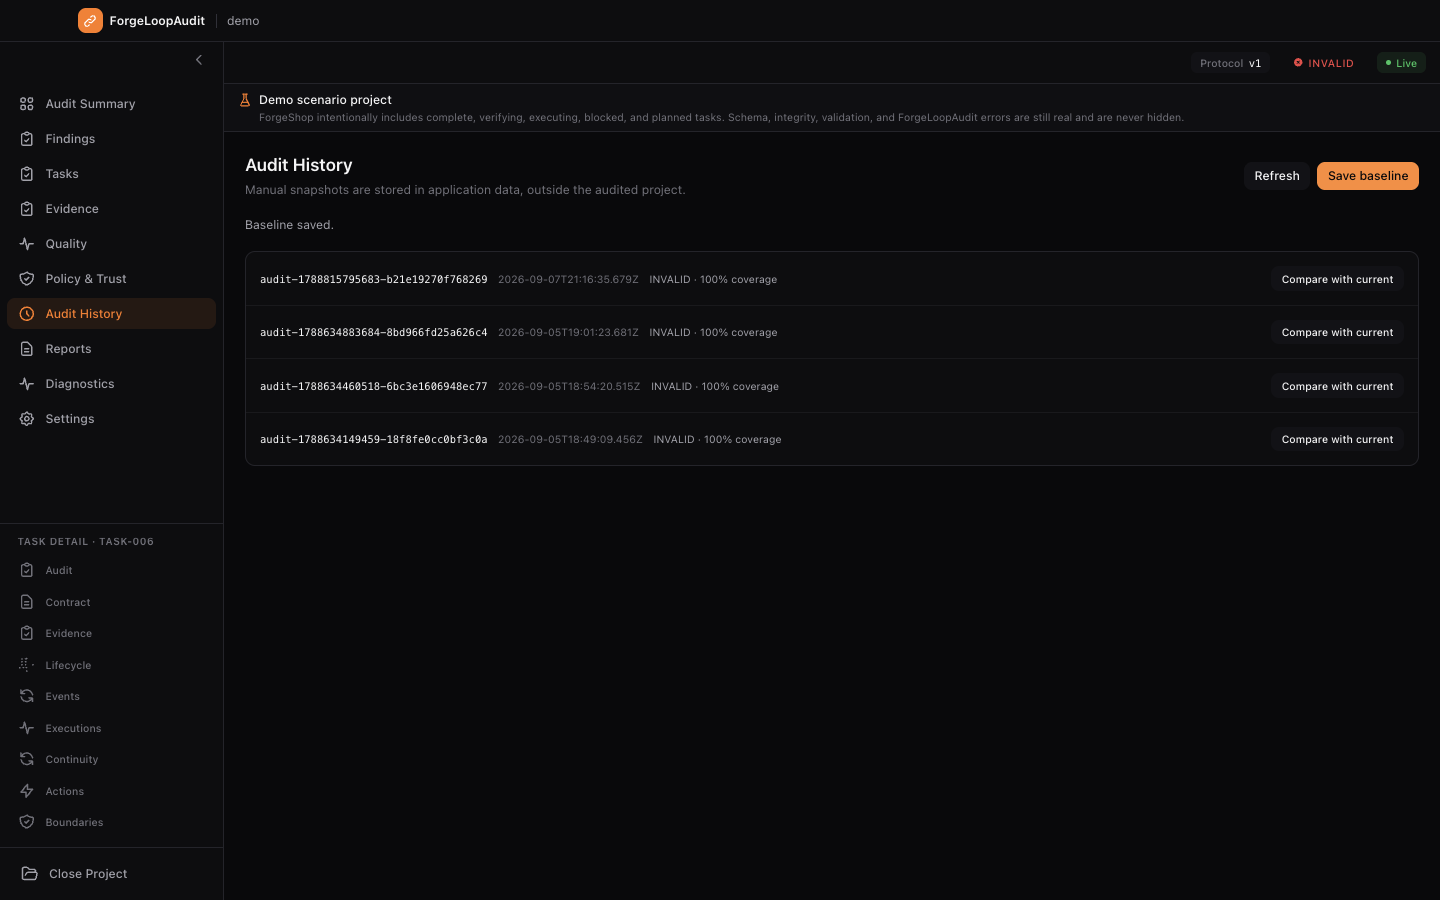
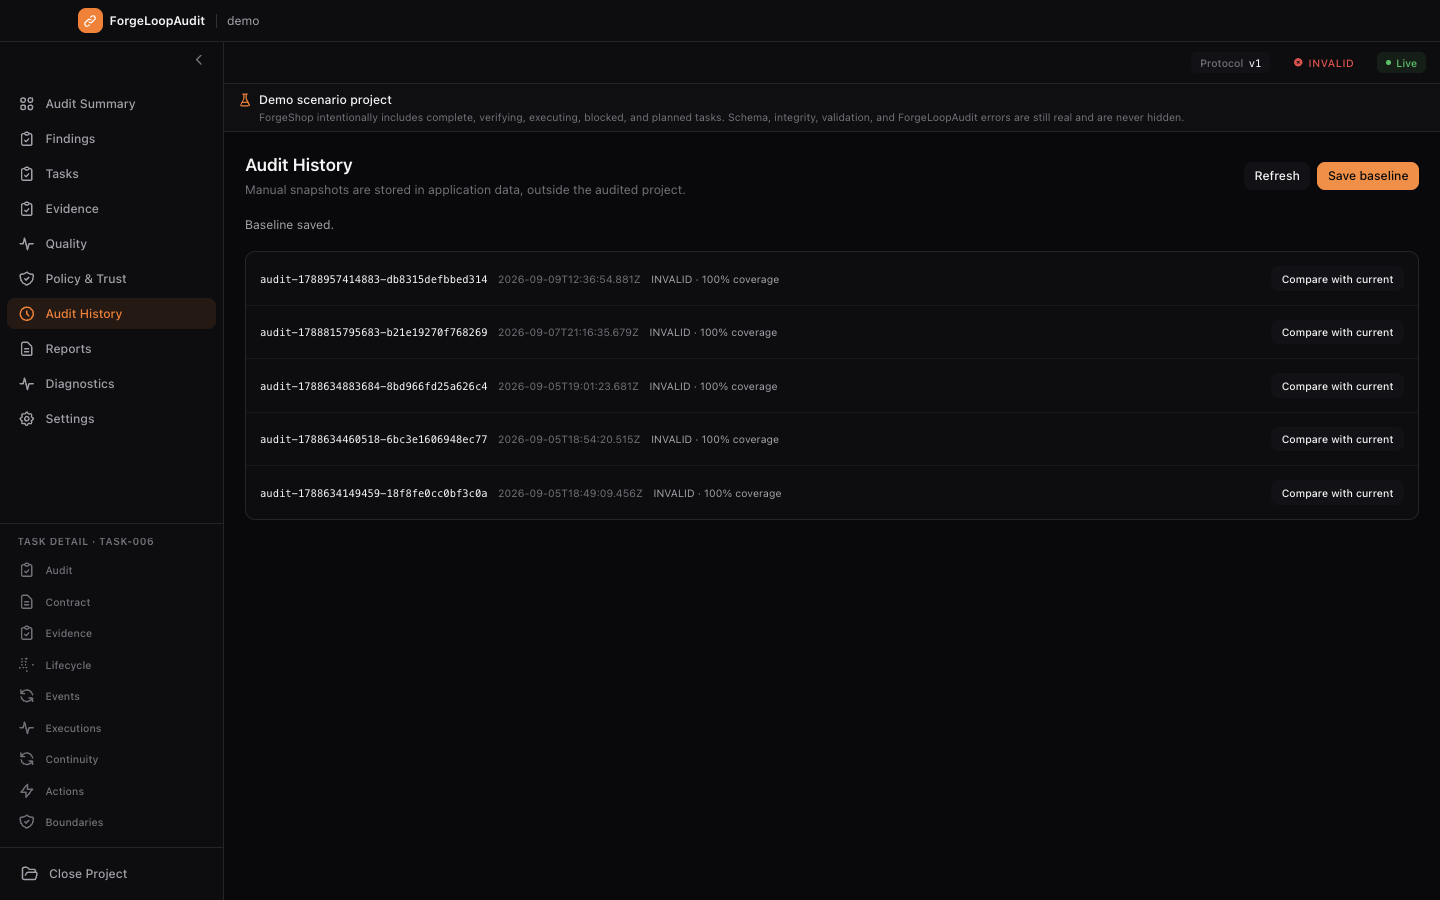
chore: capture pre-web migration baseline

diff --git a/docs/migration/WEB_BASELINE.md b/docs/migration/WEB_BASELINE.md
@@ -1,0 +1,158 @@
+# ForgeLoopAudit Web Migration Baseline
+
+Captured: 2026-09-09
+Branch: `codex/forgeloop-1.11.1-web-migration`
+
+## Product and dependency identity
+
+- ForgeLoopAudit: `0.2.0-rc.3`
+- ForgeLoop package: `@cassiomc1/forgeloop@1.10.2`
+- ForgeLoop source commit: `d286e1983177a0dfb1f0ceef6c2f6e30c406303a`
+- Protocol: v1
+- Schema: v1
+- Integration API: v1
+- Node runtime observed: `v26.8.1` (the supported package contract remains Node `>=20`)
+
+## Verification results
+
+| Command | Result | Observed evidence |
+| --- | --- | --- |
+| `npm test` | PASS | 80 files passed, 1 skipped; 485 tests passed, 3 skipped |
+| `npm run typecheck` | PASS | TypeScript completed without errors |
+| `npm run lint` | PASS | ESLint completed without errors |
+| `npm run build` | PASS | Renderer and Electron bundles built; package contents verified |
+| `npm run demo:verify` | PASS | 6 tasks, 71 events, 29/29 artifact categories |
+| `npm run test:e2e` | PASS | 8 passed, 1 skipped |
+| `npm run screenshots:readme` | PASS | 10 screenshots captured at 1440x900 |
+| `npm run docs:check` | PASS | Documentation and 10 screenshot references conformed |
+| `npm run brand:check` | PASS | 571 active files checked |
+| `npm run verify:forgeloop-lineage` | PASS | 1.10.2 archive, commit and digest matched |
+| `npm run protocol:schemas:verify` | PASS | 31 schemas verified against ForgeLoop 1.10.2 provenance |
+| `npm run verify:full` | PASS | All local gates completed; platform release gates remain CI-owned |
+
+The release-contract test suite intentionally exercises failing child processes for
+negative cases. Those child-process error messages are expected; the suite itself
+completed with 84 passing tests and no failures.
+
+## Current IPC surface
+
+The preload exposes the following renderer methods through `window.forgeLoopAudit`:
+
+```text
+selectProject
+openRecentProject
+openDemoProject
+closeProject
+getProjectAudit
+getTaskAudit
+getAuditFindings
+getTaskStructuralQuality
+saveAuditBaseline
+listAuditHistory
+compareAudits
+exportAuditReport
+getProjectSnapshot
+getTask
+getTaskEvents
+validateEventLedger
+getPolicyStatus
+getRawArtifact
+getRawCollectionArtifact
+getTaskHistory
+getTaskTrace
+getTaskReflection
+getTaskInspection
+getTaskActions
+getTaskAction
+getTaskApprovals
+getTaskMetrics
+getTaskEvaluations
+getCapabilityPolicy
+getTaskWorkspaceBinding
+getTaskHandoffs
+getTaskContinuityLint
+getTaskResponsibility
+getTaskVerificationScope
+getTaskAttestation
+getTaskExecutionProfileContext
+getTaskExecutions
+getRecentProjects
+addRecentProject
+removeRecentProject
+notifyRendererReady
+getAppVersion
+getDiagnostics
+minimizeWindow
+toggleMaximizeWindow
+subscribeProjectUpdates
+```
+
+The renderer also receives `project-update`, `watcher-status`, and `error` events.
+
+## Electron-only surface
+
+- `src/main/app.ts`: `BrowserWindow`, Electron session/permission policy,
+  navigation policy, packaged renderer loading, window lifecycle and shutdown.
+- `src/main/ipc/project.handlers.ts`: `ipcMain` route registration, native folder
+  picker, Electron app-data path, demo resource resolution, and renderer event
+  delivery. The audit/domain orchestration in this file is the primary extraction
+  target for the local server.
+- `src/main/ipc/task.handlers.ts`, `src/main/ipc/window.handlers.ts`, and
+  `src/main/ipc/register-ipc.ts`: Electron IPC registration and window controls.
+- `src/preload/index.ts`: `contextBridge` and `ipcRenderer` adapter.
+- `scripts/build-electron.mjs`, `scripts/apply-electron-fuses.mjs`,
+  `scripts/after-pack-fuses.mjs`, `scripts/verify-electron-fuses.mjs`:
+  Electron-specific build and fuse tooling.
+- `scripts/packaged-smoke.mjs`, `scripts/packaged-open-demo.mjs`, and
+  `tests/e2e/electron-smoke.spec.ts`: packaged Electron smoke paths.
+- `electron-builder.release.yml`, `build/entitlements*.plist`, and the Electron
+  packaging section of `package.json`: distributable packaging configuration.
+
+## Privileged operations currently owned by Electron main
+
+- Select a directory through `dialog.showOpenDialog`.
+- Resolve and validate a project boundary and `.forgeloop` artifacts.
+- Read ForgeLoop artifacts, ledgers, reports and history from the filesystem.
+- Load and call the ForgeLoop Integration API.
+- Run bounded read-only ForgeLoop CLI operations through the existing allowlist.
+- Start and stop the Chokidar project watcher.
+- Persist recent projects through `electron-store`.
+- Persist audit history below Electron's `app.getPath('userData')`.
+- Create exclusive report files after validating the destination policy.
+- Send projection invalidation and watcher events to the renderer.
+- Control the native window and open approved external HTTPS links.
+
+## Feature and screenshot parity set
+
+The current UI surfaces that must remain available in the web runtime are:
+
+- Audit Summary
+- Findings
+- Tasks and task audit detail
+- Evidence
+- Structural Quality
+- Policy & Trust
+- Audit History and snapshot diff
+- Reports
+- Diagnostics
+- Settings and compatibility metadata
+- Lifecycle, Events, Executions, Continuity, Actions, Contract and Boundaries task views
+- Demo project opening and watcher refresh behavior
+
+The baseline README capture set contains these 10 1440x900 dark-theme files:
+
+```text
+screen/audit-summary.png
+screen/findings.png
+screen/task-audit.png
+screen/evidence.png
+screen/quality.png
+screen/policy-trust.png
+screen/history-diff.png
+screen/report.png
+screen/diagnostics.png
+screen/settings.png
+```
+
+The web replacement must add a light theme and must not use Electron window chrome
+in current screenshots.
